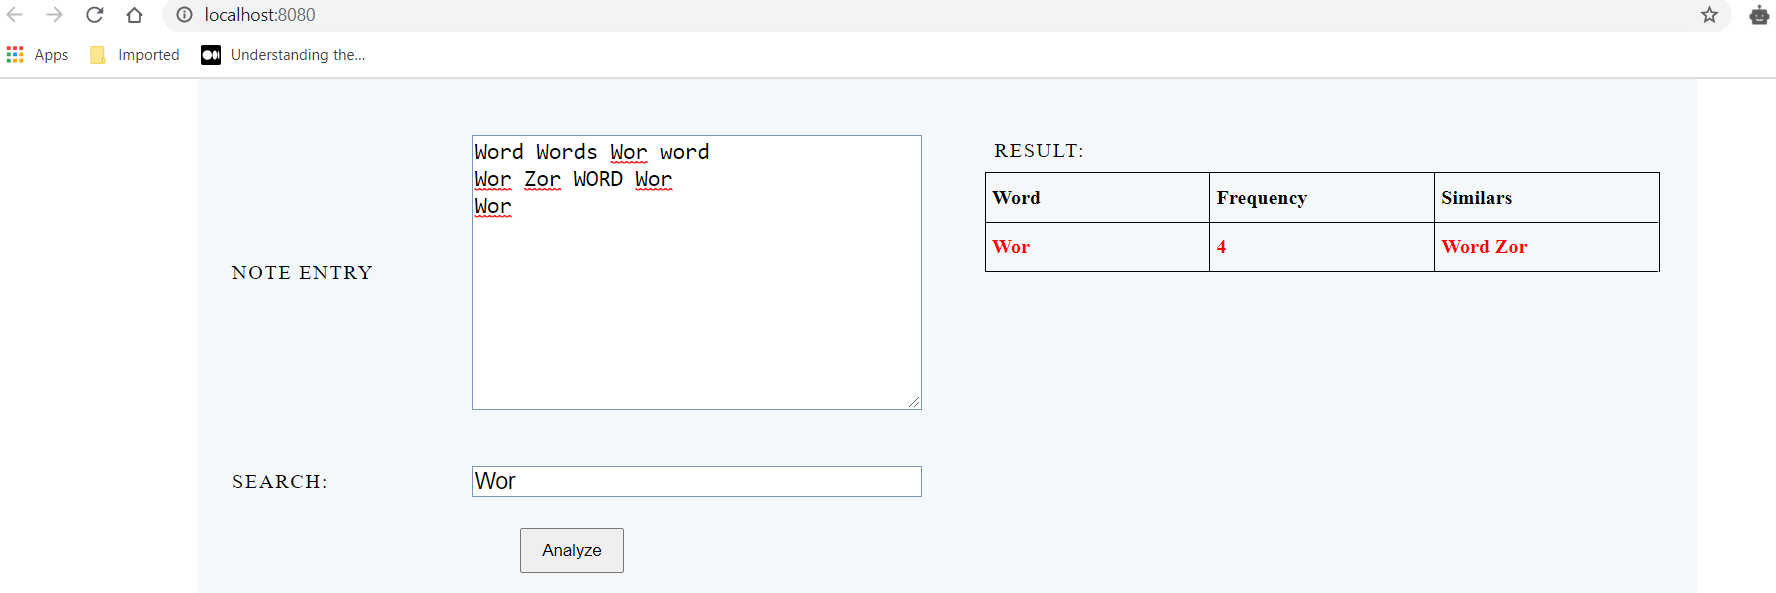
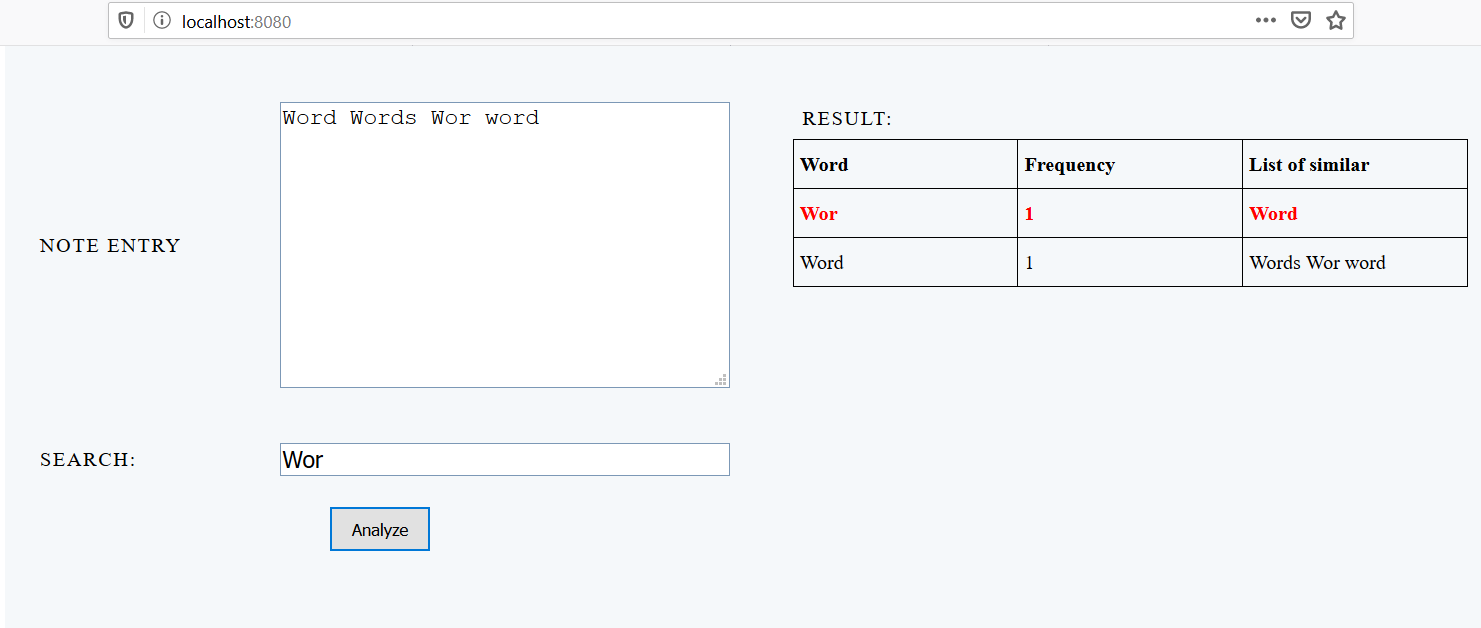
✏ fixed labels

diff --git a/src/components/result-view/result-view.ts b/src/components/result-view/result-view.ts
@@ -6,12 +6,12 @@ import { pluck } from "rxjs/operators";
     selector:  (store) => store.state.pipe(pluck('noteEntry'))
   })
 export class ResultView{
-    translation: { word: string; frequency: string; similars: string; result: string; };
+    translation: { word: string; frequency: string; similar: string; result: string; };
     constructor(){
         this.translation = {
             word:'Word',
             frequency:'Frequency',
-            similars:'Similars',
+            similar:'List of similar',
             result:'Result'
         }
     }

diff --git a/src/components/result-view/result-view.html b/src/components/result-view/result-view.html
@@ -5,7 +5,7 @@
       <div class="result">
         <span><strong>${translation.word}</strong></span>
         <span><strong>${translation.frequency}</strong></span>
-        <span><strong>${translation.similars}</strong></span>
+        <span><strong>${translation.similar}</strong></span>
         <template repeat.for="res of noteEntry.result">
           <span>${res.word}</span>
           <span>${res.frequency}</span>
